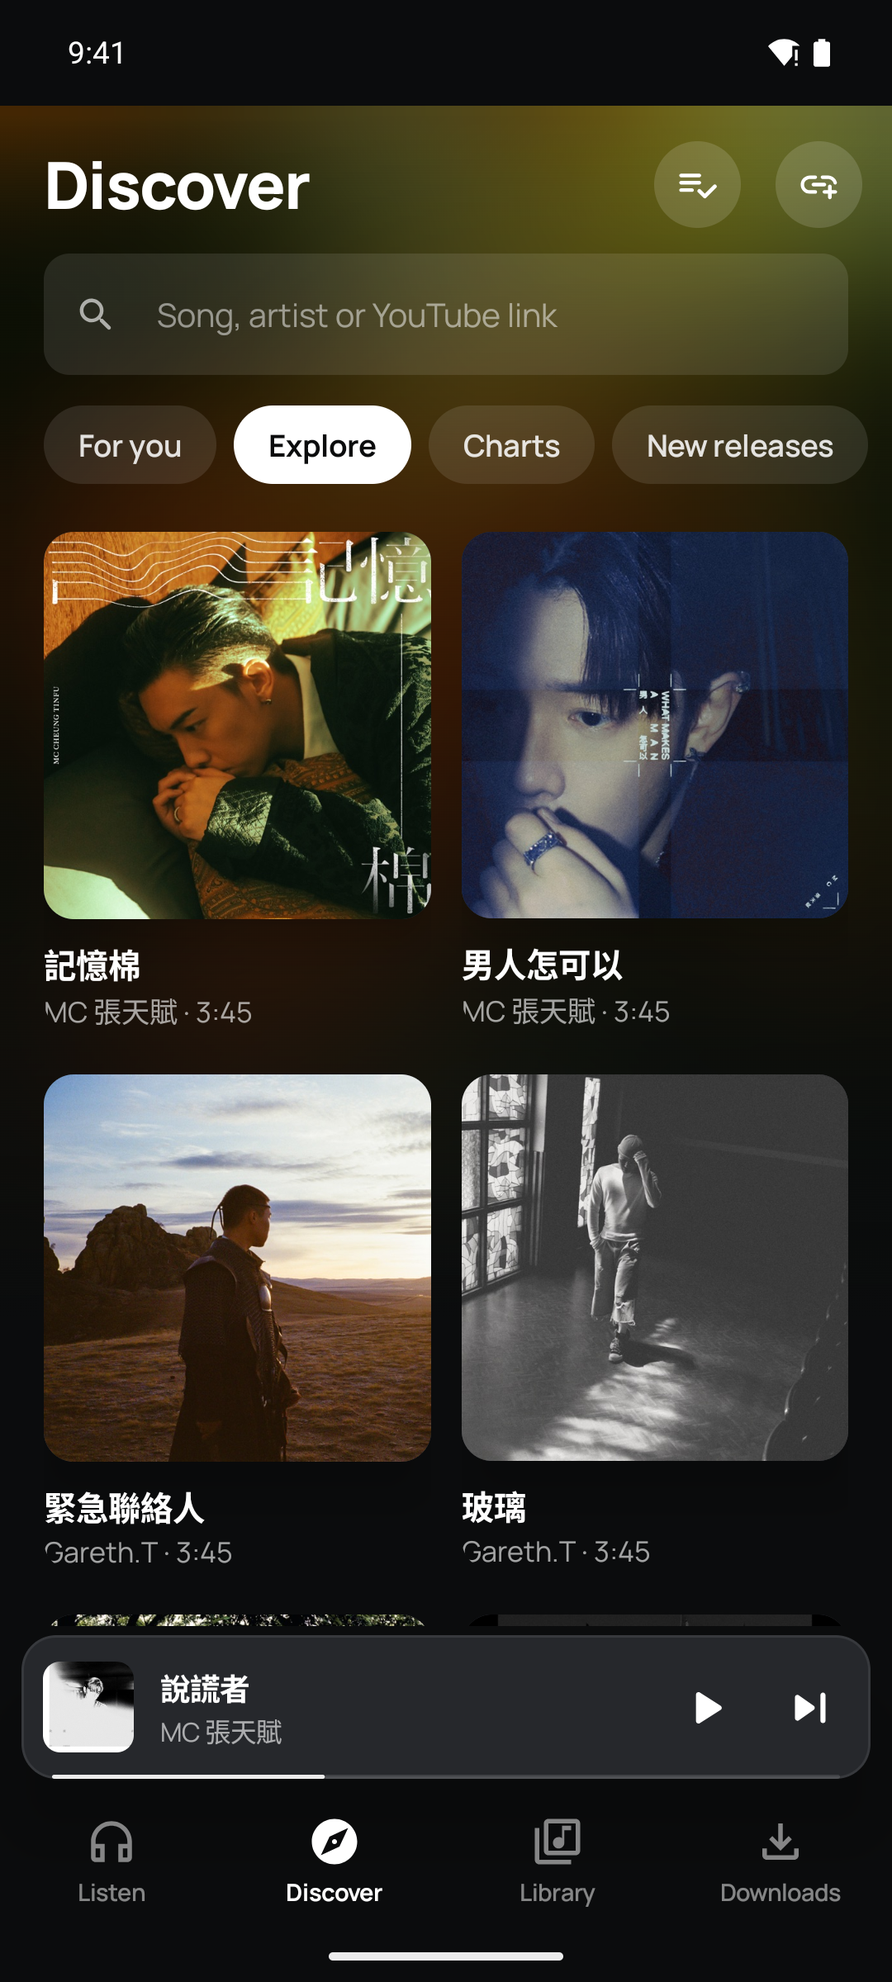
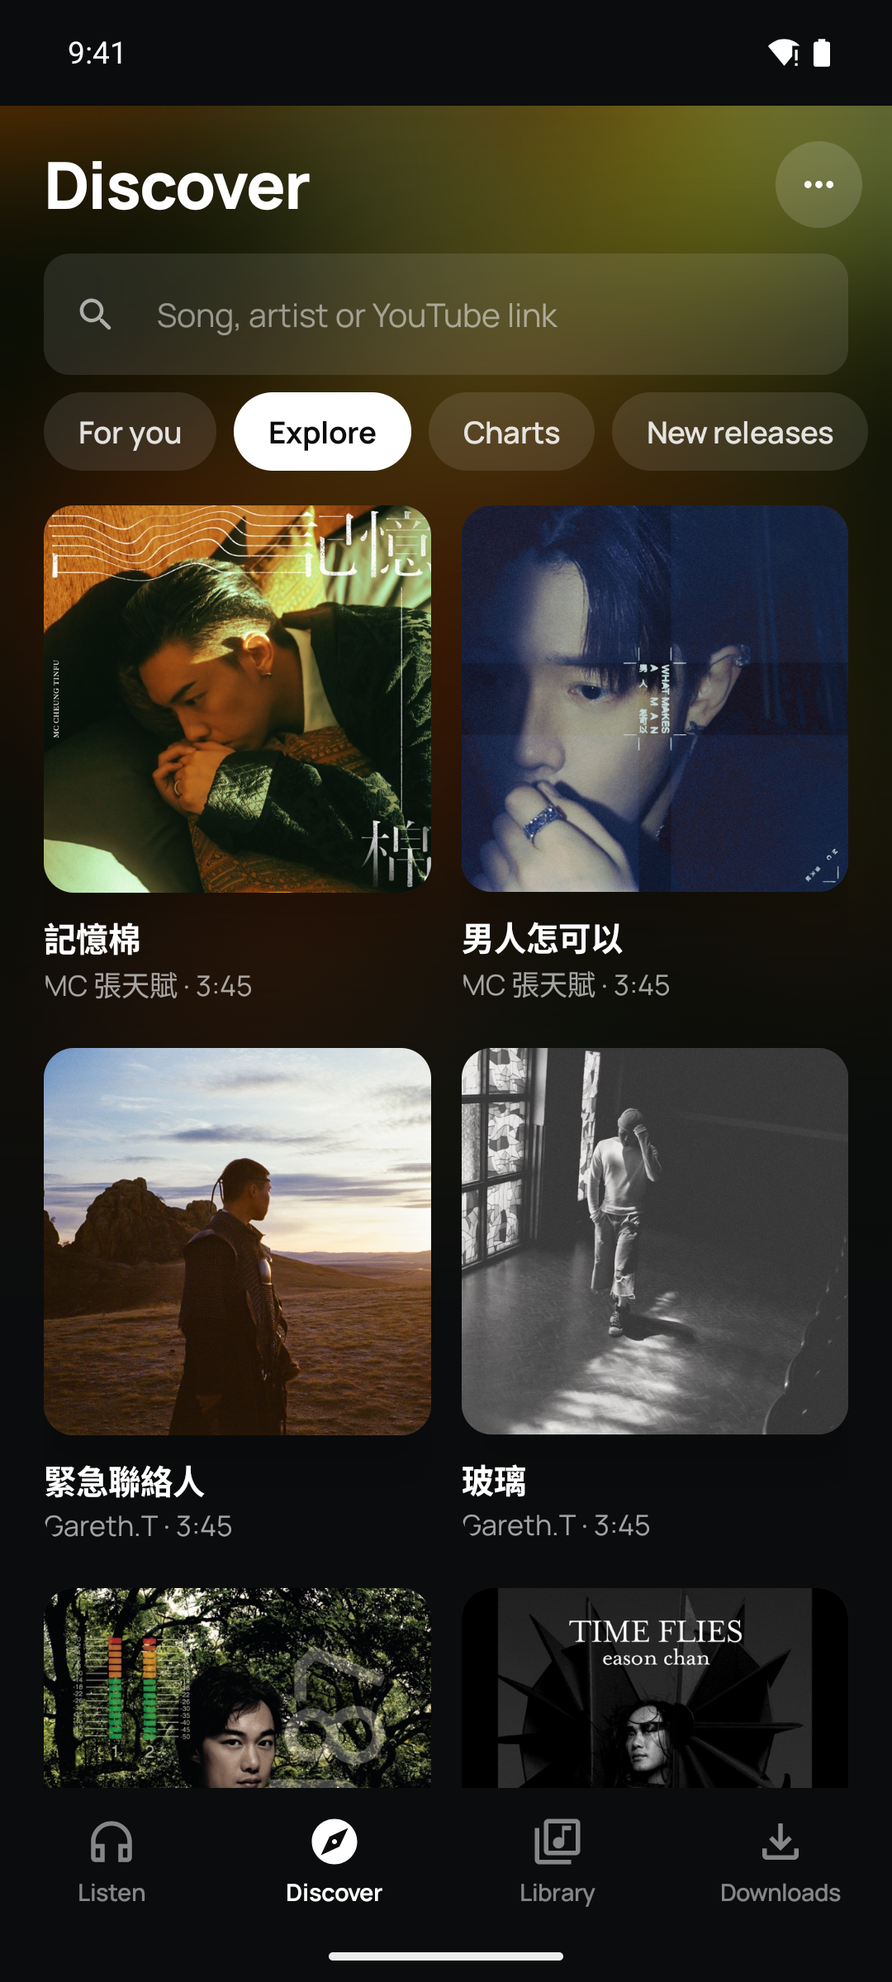
Collapse browsing headers and compact chart controls

Changed region(s): [[0.0, 0.1875, 0.9778, 0.9062], [0.4889, 0.1875, 0.9778, 0.7812], [0.7333, 0.0625, 0.825, 0.125]]

diff --git a/android/app/src/main/java/org/dddd010010/serein/MusicScreens.kt b/android/app/src/main/java/org/dddd010010/serein/MusicScreens.kt
@@ -17,6 +17,8 @@ import androidx.compose.runtime.*
 import androidx.compose.runtime.saveable.rememberSaveable
 import androidx.compose.ui.Alignment
 import androidx.compose.ui.Modifier
+import androidx.compose.ui.focus.onFocusChanged
+import androidx.compose.ui.input.nestedscroll.nestedScroll
 import androidx.compose.ui.draw.clip
 import androidx.compose.ui.draw.shadow
 import androidx.compose.ui.graphics.Brush
@@ -98,6 +100,10 @@ fun listenPicks(songs:List<Song>)=Library.recIds.mapNotNull{id->songs.find{it.id
     var rename by remember{mutableStateOf(false)}
     var deleting by remember{mutableStateOf(false)}
     var sortMenu by remember{mutableStateOf(false)}
+    var searchFocused by remember{mutableStateOf(false)}
+    val ime=WindowInsets.ime
+    val density=androidx.compose.ui.platform.LocalDensity.current
+    val header=TopAppBarDefaults.enterAlwaysScrollBehavior(rememberTopAppBarState(),canScroll={!searchFocused || ime.getBottom(density)==0})
     var error by remember{mutableStateOf("")}
     val names=Library.playlists.keys().asSequence().toList()
     val playlist=Library.playlists.optJSONArray(group)
@@ -113,10 +119,12 @@ fun listenPicks(songs:List<Song>)=Library.recIds.mapNotNull{id->songs.find{it.id
     var previousCriteria by rememberSaveable{mutableStateOf(criteria)}
     LaunchedEffect(criteria){if(previousCriteria!=criteria){state.scrollToItem(0);previousCriteria=criteria}}
     BackHandler(active && (group.isNotBlank() || query.isNotBlank())){if(group.isNotBlank())group="" else query=""}
-    Column(Modifier.background(Brush.verticalGradient(listOf(Color(0xFF17181C),Night),endY=900f))) {
+    Column(Modifier.fillMaxSize().nestedScroll(header.nestedScrollConnection).background(Brush.verticalGradient(listOf(Color(0xFF17181C),Night),endY=900f))) {
+        CollapsingHeader(header){
         PageHeader(tr(R.string.ui_library),tr(R.string.ui_tracks_89, songs.size)){GlassIcon(Icons.Rounded.PlaylistAdd,tr(R.string.ui_new_playlist),{create=true})}
-        SearchBox(query,{query=it},tr(R.string.ui_search_songs_artists_and_albums))
-        LazyRow(contentPadding=PaddingValues(horizontal=20.dp,vertical=6.dp),horizontalArrangement=Arrangement.spacedBy(8.dp)){
+        SearchBox(query,{query=it},tr(R.string.ui_search_songs_artists_and_albums),modifier=Modifier.onFocusChanged{searchFocused=it.isFocused})
+        }
+        LazyRow(contentPadding=PaddingValues(horizontal=20.dp,vertical=2.dp),horizontalArrangement=Arrangement.spacedBy(8.dp)){
             items(listOf("ui_songs" to tr(R.string.ui_songs),"ui_favorites" to tr(R.string.ui_favorites),"ui_playlists" to tr(R.string.ui_playlists),"ui_artist" to tr(R.string.ui_artist),"ui_albums" to tr(R.string.ui_albums),"ui_downloaded" to tr(R.string.ui_downloaded))){(id,label)->LineTab(label,filter==id){filter=id;group=""}}
         }
         if(group.isNotEmpty())Row(Modifier.padding(start=12.dp,end=10.dp,top=4.dp),verticalAlignment=Alignment.CenterVertically){
@@ -143,14 +151,19 @@ fun listenPicks(songs:List<Song>)=Library.recIds.mapNotNull{id->songs.find{it.id
                     }
                 }
             }else{
-                item{Row(Modifier.fillMaxWidth().padding(start=10.dp,end=16.dp,top=2.dp,bottom=4.dp),verticalAlignment=Alignment.CenterVertically){
-                    Box(Modifier.weight(1f)){TextButton(onClick={sortMenu=true},enabled=filter!="ui_playlists"){Text(if(filter=="ui_playlists")tr(R.string.ui_tracks_added_order, list.size) else tr(R.string.ui_tracks, AppLocale.named(sort), list.size),fontSize=14.sp,fontWeight=FontWeight.Bold,color=TextBright.copy(alpha=.8f));if(filter!="ui_playlists")Icon(Icons.Rounded.KeyboardArrowDown,null,Modifier.size(18.dp),tint=TextBright.copy(alpha=.8f))}
+                item{BoxWithConstraints(Modifier.fillMaxWidth()){
+                val compactActions=maxWidth<(360f*density.fontScale).dp
+                Row(Modifier.fillMaxWidth().padding(start=10.dp,end=16.dp,top=2.dp,bottom=4.dp),verticalAlignment=Alignment.CenterVertically){
+                    Box(Modifier.weight(1f)){TextButton(onClick={sortMenu=true},enabled=filter!="ui_playlists"){
+                        Text(if(filter=="ui_playlists")tr(R.string.ui_tracks_89,list.size) else "${AppLocale.named(sort)} · ${list.size}",fontSize=14.sp,fontWeight=FontWeight.Bold,color=TextBright.copy(alpha=.8f),maxLines=1,overflow=TextOverflow.Ellipsis,modifier=Modifier.weight(1f,false))
+                        if(filter!="ui_playlists")Icon(Icons.Rounded.KeyboardArrowDown,null,Modifier.size(18.dp),tint=TextBright.copy(alpha=.8f))}
                         DropdownMenu(sortMenu,{sortMenu=false},containerColor=Panel){listOf("ui_recently_added" to tr(R.string.ui_recently_added),"ui_song_title" to tr(R.string.ui_song_title),"ui_most_played" to tr(R.string.ui_most_played)).forEach{(id,label)->DropdownMenuItem(text={Text(label)},onClick={sort=id;sortMenu=false})}}
                     }
                     GlassIcon(Icons.Rounded.Shuffle,tr(R.string.ui_shuffle_all),{play(list.shuffled(),0)},enabled=list.isNotEmpty())
                     Spacer(Modifier.width(4.dp))
-                    PrimaryPill(tr(R.string.ui_play_all),{play(list,0)},enabled=list.isNotEmpty())
-                }}
+                    if(compactActions)GlassButton({play(list,0)},size=46.dp,enabled=list.isNotEmpty(),fill=if(list.isNotEmpty())TextBright else Glass){Icon(Icons.Rounded.PlayArrow,tr(R.string.ui_play_all),Modifier.size(24.dp),tint=if(list.isNotEmpty())Night else Secondary)}
+                    else PrimaryPill(tr(R.string.ui_play_all),{play(list,0)},enabled=list.isNotEmpty())
+                }}}
                 if(list.isEmpty())item{EmptyState(tr(R.string.ui_no_songs_yet),if(filter=="ui_favorites")tr(R.string.ui_open_a_song_s_menu_to_add_it_to_favorites) else tr(R.string.ui_try_another_search_or_add_some_music_first))}
                 items(list,key={it.id}){s->SongRow(s,{play(list,list.indexOf(s))},{menu(s,if(filter=="ui_playlists")group else "")})}
             }

diff --git a/android/app/src/main/java/org/dddd010010/serein/ChartScreens.kt b/android/app/src/main/java/org/dddd010010/serein/ChartScreens.kt
@@ -17,6 +17,9 @@ import androidx.compose.ui.Alignment
 import androidx.compose.ui.Modifier
 import androidx.compose.ui.draw.clip
 import androidx.compose.ui.layout.ContentScale
+import androidx.compose.ui.semantics.Role
+import androidx.compose.ui.semantics.contentDescription
+import androidx.compose.ui.semantics.semantics
 import androidx.compose.ui.text.font.FontWeight
 import androidx.compose.ui.text.style.TextOverflow
 import androidx.compose.ui.unit.dp
@@ -90,17 +93,20 @@ private fun regionLabel(id:String)=when(id){"global"->tr(R.string.chart_global);
     LaunchedEffect(section,model.provider,model.region,model.days){state.scrollToItem(0)}
     Column(Modifier.fillMaxSize()){
         if(section=="charts"){
-            Segmented(listOf("youtube" to "YouTube","apple" to "Apple Music","echo" to "Echo"),model.provider,{model.select(provider=it)},Modifier.padding(horizontal=20.dp,vertical=4.dp))
-            LazyRow(contentPadding=PaddingValues(horizontal=10.dp)){
-                if(model.provider=="echo")items(listOf(7,30,0)){days->ScopeTab(when(days){7->tr(R.string.chart_week);30->tr(R.string.chart_month);else->tr(R.string.chart_all_time)},model.days==days){model.select(days=days)}}
-                else items(if(model.provider=="youtube")listOf("global","hk","tw","jp") else listOf("hk","tw","jp")){region->ScopeTab(regionLabel(region),model.region==region){model.select(region=region)}}
+            Row(Modifier.fillMaxWidth().padding(horizontal=20.dp,vertical=4.dp),horizontalArrangement=Arrangement.spacedBy(8.dp)){
+                CatalogPicker(tr(R.string.chart_source),listOf("youtube" to "YouTube","apple" to "Apple Music","echo" to "Echo"),model.provider,{model.select(provider=it)},Modifier.weight(1f))
+                if(model.provider=="echo")CatalogPicker(tr(R.string.chart_period),listOf(7 to tr(R.string.chart_week),30 to tr(R.string.chart_month),0 to tr(R.string.chart_all_time)),model.days,{model.select(days=it)},Modifier.weight(1f))
+                else CatalogPicker(tr(R.string.chart_region),(if(model.provider=="youtube")listOf("global","hk","tw","jp") else listOf("hk","tw","jp")).map{it to regionLabel(it)},model.region,{model.select(region=it)},Modifier.weight(1f))
             }
-        }else Row(Modifier.fillMaxWidth().padding(start=20.dp,end=16.dp,top=2.dp,bottom=4.dp),verticalAlignment=Alignment.CenterVertically){
-            Text(tr(R.string.release_order),fontSize=12.sp,color=Secondary,modifier=Modifier.weight(1f).padding(end=10.dp))
-            SecondaryPill(tr(R.string.follow_artists),{follows=true},icon=Icons.Rounded.PersonAdd,height=36.dp)
         }
         PullToRefreshBox(model.loading,{model.load(refresh=true)},Modifier.weight(1f)){
             LazyColumn(state=state,modifier=Modifier.fillMaxSize(),contentPadding=PaddingValues(bottom=28.dp)){
+                if(section=="releases")item{
+                    Row(Modifier.fillMaxWidth().padding(start=20.dp,end=16.dp,top=2.dp,bottom=4.dp),verticalAlignment=Alignment.CenterVertically){
+                        Text(tr(R.string.release_order),fontSize=12.sp,color=Secondary,modifier=Modifier.weight(1f).padding(end=10.dp))
+                        SecondaryPill(tr(R.string.follow_artists),{follows=true},icon=Icons.Rounded.PersonAdd,height=36.dp)
+                    }
+                }
                 item{
                     Column(Modifier.padding(start=20.dp,end=20.dp,top=8.dp,bottom=8.dp)){
                         Text(when{section=="releases"->tr(R.string.release_source);model.provider=="youtube"->tr(R.string.chart_youtube_title);model.provider=="apple"->tr(R.string.chart_apple_title);else->tr(R.string.chart_echo_title)},fontFamily=EchoTitleFont,fontSize=20.sp,fontWeight=FontWeight.Bold)
@@ -138,8 +144,22 @@ private fun regionLabel(id:String)=when(id){"global"->tr(R.string.chart_global);
     if(follows)FullSheet({follows=false;model.load()}){dismiss->ArtistFollowsScreen({dismiss();model.load()},message)}
 }
 
-@Composable private fun ScopeTab(label:String,selected:Boolean,click:()->Unit){
-    TextButton(onClick=click){Text(label,fontSize=14.sp,fontWeight=if(selected)FontWeight.ExtraBold else FontWeight.SemiBold,color=if(selected)TextBright else TextBright.copy(alpha=.5f))}
+@Composable private fun <T> CatalogPicker(label:String,options:List<Pair<T,String>>,selected:T,select:(T)->Unit,modifier:Modifier=Modifier){
+    var expanded by remember{mutableStateOf(false)}
+    val current=options.firstOrNull{it.first==selected}?.second.orEmpty()
+    val fontScale=androidx.compose.ui.platform.LocalDensity.current.fontScale
+    val minimumHeight=if(fontScale>1.15f)(40f*fontScale+12f).dp else 48.dp
+    Box(modifier){
+        Row(Modifier.fillMaxWidth().heightIn(min=minimumHeight).clip(RoundedCornerShape(12.dp)).background(Glass)
+            .semantics{contentDescription="$label: $current"}.clickable(role=Role.Button){expanded=true}.padding(horizontal=14.dp,vertical=6.dp),verticalAlignment=Alignment.CenterVertically){
+            Text(current,fontSize=14.sp,lineHeight=20.sp,fontWeight=FontWeight.Bold,maxLines=2,overflow=TextOverflow.Ellipsis,modifier=Modifier.weight(1f))
+            Icon(Icons.Rounded.KeyboardArrowDown,null,Modifier.padding(start=6.dp).size(20.dp),tint=Secondary)
+        }
+        DropdownMenu(expanded,{expanded=false},modifier=Modifier.widthIn(min=176.dp),containerColor=Panel){
+            options.forEach{(id,title)->DropdownMenuItem(text={Text(title,fontWeight=if(id==selected)FontWeight.Bold else FontWeight.Normal)},
+                trailingIcon={if(id==selected)Icon(Icons.Rounded.Check,null,Modifier.size(18.dp))},onClick={expanded=false;select(id)})}
+        }
+    }
 }
 
 @Composable private fun ChartCover(row:JSONObject,song:Song?,size:Int,radius:Int){

diff --git a/android/app/src/main/java/org/dddd010010/serein/Discovery.kt b/android/app/src/main/java/org/dddd010010/serein/Discovery.kt
@@ -17,7 +17,11 @@ import androidx.compose.ui.Alignment
 import androidx.compose.ui.Modifier
 import androidx.compose.ui.draw.clip
 import androidx.compose.ui.draw.shadow
+import androidx.compose.ui.focus.FocusRequester
+import androidx.compose.ui.focus.focusRequester
+import androidx.compose.ui.focus.onFocusChanged
 import androidx.compose.ui.graphics.Color
+import androidx.compose.ui.input.nestedscroll.nestedScroll
 import androidx.compose.ui.layout.ContentScale
 import androidx.compose.ui.platform.LocalSoftwareKeyboardController
 import androidx.compose.ui.text.font.FontWeight
@@ -150,6 +154,15 @@ class DiscoveryModel:ViewModel(){
     var link by rememberSaveable{mutableStateOf(false)}
     var tasks by rememberSaveable{mutableStateOf(false)}
     val keyboard=LocalSoftwareKeyboardController.current
+    val searchFocusManager=androidx.compose.ui.platform.LocalFocusManager.current
+    var searchFocused by remember{mutableStateOf(false)}
+    var searchRequest by remember{mutableIntStateOf(0)}
+    var actionsMenu by remember{mutableStateOf(false)}
+    val searchFocus=remember{FocusRequester()}
+    val ime=WindowInsets.ime
+    val density=androidx.compose.ui.platform.LocalDensity.current
+    val header=TopAppBarDefaults.enterAlwaysScrollBehavior(rememberTopAppBarState(),canScroll={!searchFocused || ime.getBottom(density)==0})
+    LaunchedEffect(searchRequest){if(searchRequest>0){header.state.heightOffset=0f;searchFocus.requestFocus();keyboard?.show()}}
     val scope=rememberCoroutineScope()
     fun refresh(){keyboard?.hide();model.refresh()}
     LaunchedEffect(Unit){model.ensureLoaded()}
@@ -173,20 +186,28 @@ class DiscoveryModel:ViewModel(){
         if(lead?.song!=null)SongBackdrop(lead.song,Modifier.fillMaxWidth().height(560.dp))
         else AmbientBackdrop(lead?.cover?.ifBlank{null},lead?.cover?.ifBlank{null},Modifier.fillMaxWidth().height(560.dp))
     }
-    Column {
+    Column(Modifier.fillMaxSize().nestedScroll(header.nestedScrollConnection)) {
+        CollapsingHeader(header){
         Row(Modifier.fillMaxWidth().padding(start=20.dp,end=10.dp,top=12.dp,bottom=8.dp),verticalAlignment=Alignment.CenterVertically){
             PageTitle(tr(R.string.ui_discover),Modifier.weight(1f),size=30)
             HeaderActions{
+                if(section in listOf("charts","releases"))GlassIcon(Icons.Rounded.Search,tr(R.string.ui_search),{section=model.mode;searchRequest++})
                 val active=model.jobs.count{it.optString("status") in listOf("queued","downloading")}
-                BadgedBox(badge={if(active>0)Badge(containerColor=TextBright,contentColor=Night){Text(active.toString())}}){GlassIcon(Icons.Rounded.PlaylistAddCheck,tr(R.string.ui_imports),{tasks=true})}
-                GlassIcon(Icons.Rounded.AddLink,tr(R.string.ui_paste_a_link),{link=true})
+                Box{
+                    BadgedBox(badge={if(active>0)Badge(containerColor=TextBright,contentColor=Night){Text(active.toString())}}){GlassIcon(Icons.Rounded.MoreHoriz,tr(R.string.browse_more_actions),{actionsMenu=true})}
+                    DropdownMenu(actionsMenu,{actionsMenu=false},containerColor=Panel){
+                        DropdownMenuItem(text={Text(tr(R.string.ui_imports))},leadingIcon={Icon(Icons.Rounded.PlaylistAddCheck,null)},onClick={actionsMenu=false;tasks=true})
+                        DropdownMenuItem(text={Text(tr(R.string.ui_paste_a_link))},leadingIcon={Icon(Icons.Rounded.AddLink,null)},onClick={actionsMenu=false;link=true})
+                    }
+                }
             }
         }
-        SearchBox(model.query,{model.query=it},tr(R.string.ui_song_artist_or_youtube_link),submit={
+        if(section !in listOf("charts","releases"))SearchBox(model.query,{model.query=it},tr(R.string.ui_song_artist_or_youtube_link),submit={
             if(model.query.trim().startsWith("https://"))model.add(model.query.trim(),message=message) else {section=model.mode;model.search();scope.launch{listState.scrollToItem(0)}}
-        },clear={section=model.mode;model.query="";model.search()})
-        LazyRow(Modifier.fillMaxWidth().padding(top=8.dp,bottom=8.dp),contentPadding=PaddingValues(horizontal=20.dp),horizontalArrangement=Arrangement.spacedBy(8.dp)){
-            items(listOf("taste" to tr(R.string.ui_for_you),"new" to tr(R.string.ui_explore),"charts" to tr(R.string.chart_tab),"releases" to tr(R.string.release_tab))){(id,label)->LineTab(label,section==id){section=id;if(id in listOf("taste","new")){model.changeMode(id);scope.launch{listState.scrollToItem(0)}}}}
+        },clear={section=model.mode;model.query="";model.search()},modifier=Modifier.focusRequester(searchFocus).onFocusChanged{searchFocused=it.isFocused})
+        }
+        LazyRow(Modifier.fillMaxWidth().padding(vertical=2.dp),contentPadding=PaddingValues(horizontal=20.dp),horizontalArrangement=Arrangement.spacedBy(8.dp)){
+            items(listOf("taste" to tr(R.string.ui_for_you),"new" to tr(R.string.ui_explore),"charts" to tr(R.string.chart_tab),"releases" to tr(R.string.release_tab))){(id,label)->LineTab(label,section==id){keyboard?.hide();searchFocusManager.clearFocus();searchFocused=false;section=id;if(id in listOf("taste","new")){model.changeMode(id);scope.launch{listState.scrollToItem(0)}}}}
         }
         if(section in listOf("charts","releases"))Box(Modifier.weight(1f)){
             ChartScreen(charts,section,model,play,{query->section="taste";model.changeMode("taste");model.query=query;model.search()},message)

diff --git a/android/app/src/main/java/org/dddd010010/serein/UiComponents.kt b/android/app/src/main/java/org/dddd010010/serein/UiComponents.kt
@@ -313,15 +313,17 @@ private val AmbientFilter=ColorFilter.colorMatrix(ColorMatrix().apply{
     }
     if(trailing!=null)trailing() else IconButton(onClick=menu){Icon(Icons.Rounded.MoreHoriz,tr(R.string.ui_options_for, song.title),tint=Secondary)}
 }}
-@Composable fun SearchBox(value:String,change:(String)->Unit,placeholder:String,submit:()->Unit={},clear:()->Unit={change("")}){
+@Composable fun SearchBox(value:String,change:(String)->Unit,placeholder:String,submit:()->Unit={},clear:()->Unit={change("")},modifier:Modifier=Modifier){
     val keyboard=LocalSoftwareKeyboardController.current
+    val focus=androidx.compose.ui.platform.LocalFocusManager.current
+    fun search(){keyboard?.hide();focus.clearFocus();submit()}
     TextField(value,change,placeholder={Text(placeholder,fontSize=15.sp,maxLines=1,overflow=TextOverflow.Ellipsis,color=TextBright.copy(alpha=.5f))},singleLine=true,
-        leadingIcon={IconButton(onClick={keyboard?.hide();submit()}){Icon(Icons.Rounded.Search,tr(R.string.ui_search),Modifier.size(20.dp),tint=Secondary)}},
+        leadingIcon={IconButton(onClick={search()}){Icon(Icons.Rounded.Search,tr(R.string.ui_search),Modifier.size(20.dp),tint=Secondary)}},
         trailingIcon={if(value.isNotBlank())IconButton(onClick=clear){Icon(Icons.Rounded.Close,tr(R.string.ui_clear_search),Modifier.size(18.dp),tint=Secondary)}},
-        keyboardOptions=KeyboardOptions(imeAction=ImeAction.Search),keyboardActions=KeyboardActions(onSearch={keyboard?.hide();submit()}),shape=RoundedCornerShape(12.dp),
+        keyboardOptions=KeyboardOptions(imeAction=ImeAction.Search),keyboardActions=KeyboardActions(onSearch={search()}),shape=RoundedCornerShape(12.dp),
         textStyle=TextStyle(fontFamily=SereinFont,fontSize=15.sp),
         colors=TextFieldDefaults.colors(focusedContainerColor=Glass,unfocusedContainerColor=Glass,focusedIndicatorColor=Color.Transparent,unfocusedIndicatorColor=Color.Transparent,cursorColor=TextBright),
-        modifier=Modifier.fillMaxWidth().padding(horizontal=20.dp))
+        modifier=modifier.fillMaxWidth().padding(horizontal=20.dp))
 }
 /** Row inside a [GlassCard]: optional icon tile, label, subtitle and trailing content. */
 @Composable fun CardRow(text:String,icon:ImageVector?=null,subtitle:String?=null,color:Color=TextBright,tile:Boolean=false,click:(()->Unit)?=null,trailing:@Composable (RowScope.()->Unit)?=null){

diff --git a/android/app/src/main/java/org/dddd010010/serein/CollapsingHeader.kt b/android/app/src/main/java/org/dddd010010/serein/CollapsingHeader.kt
@@ -1,0 +1,39 @@
+@file:OptIn(androidx.compose.material3.ExperimentalMaterial3Api::class)
+package org.dddd010010.serein
+
+import androidx.compose.foundation.layout.Column
+import androidx.compose.foundation.layout.ColumnScope
+import androidx.compose.foundation.layout.fillMaxWidth
+import androidx.compose.material3.TopAppBarScrollBehavior
+import androidx.compose.runtime.Composable
+import androidx.compose.runtime.derivedStateOf
+import androidx.compose.runtime.getValue
+import androidx.compose.runtime.remember
+import androidx.compose.ui.Modifier
+import androidx.compose.ui.draw.clipToBounds
+import androidx.compose.ui.focus.focusProperties
+import androidx.compose.ui.layout.Layout
+import androidx.compose.ui.semantics.clearAndSetSemantics
+import androidx.compose.ui.unit.Constraints
+import kotlin.math.roundToInt
+
+/** Uses Material's drag, fling and snap behavior while measuring the actual title/search height. */
+@Composable fun CollapsingHeader(
+    behavior:TopAppBarScrollBehavior,
+    modifier:Modifier=Modifier,
+    content:@Composable ColumnScope.()->Unit
+){
+    val hidden by remember(behavior.state){derivedStateOf{behavior.state.collapsedFraction>=.999f}}
+    val visibility=if(hidden)Modifier.clearAndSetSemantics{}.focusProperties{canFocus=false} else Modifier
+    Layout(content={Column(Modifier.fillMaxWidth(),content=content)},modifier=modifier.fillMaxWidth().clipToBounds().then(visibility)){measurables,constraints->
+        val header=measurables.single().measure(constraints.copy(minHeight=0,maxHeight=Constraints.Infinity))
+        val limit=-header.height.toFloat()
+        if(behavior.state.heightOffsetLimit!=limit){
+            val collapsed=behavior.state.collapsedFraction
+            behavior.state.heightOffsetLimit=limit
+            behavior.state.heightOffset=limit*collapsed
+        }
+        val visible=(header.height+behavior.state.heightOffset).roundToInt().coerceIn(0,header.height)
+        layout(header.width,visible){header.placeRelative(0,visible-header.height)}
+    }
+}

diff --git a/docs/README.en.md b/docs/README.en.md
@@ -20,7 +20,7 @@ daily discovery and recommendations informed by listening behavior.
 
 ## App screenshots
 
-Captured from Echo 0.10.0 with a demonstration library. Page backgrounds take their colour from the current cover. Select an image to view it at full size.
+Captured from Echo with a demonstration library. Page backgrounds take their colour from the current cover. Select an image to view it at full size.
 
 | Home and daily mixes | Player | Playback queue |
 | --- | --- | --- |

diff --git a/README.md b/README.md
@@ -16,7 +16,7 @@ Echo 是音樂伺服器與 Android 播放器，支援背景播放、離線保存
 
 ## App 畫面
 
-Echo 0.10.0 實際畫面，使用示範音樂庫。頁面背景取自目前封面的顏色。點擊圖片可查看完整尺寸。
+Echo 實際畫面，使用示範音樂庫。頁面背景取自目前封面的顏色。點擊圖片可查看完整尺寸。
 
 | 首頁與每日歌單 | 播放器 | 播放佇列 |
 | --- | --- | --- |
